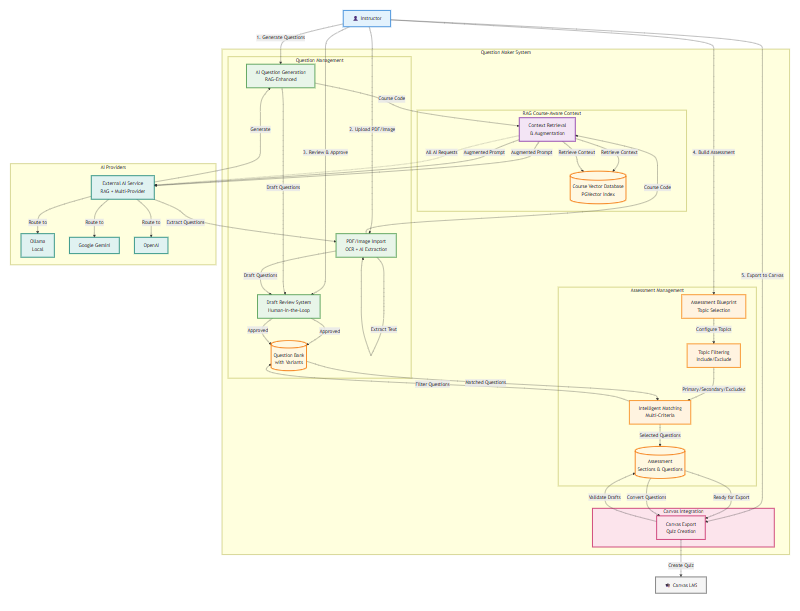
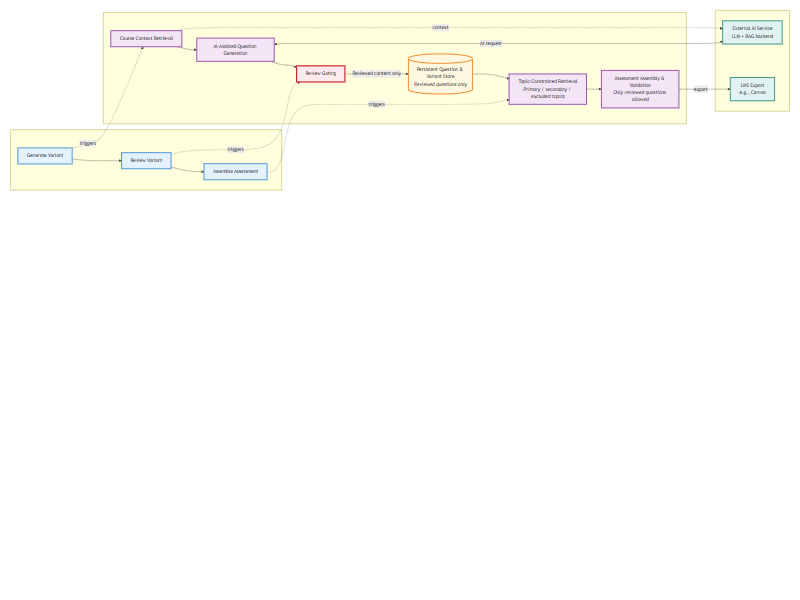
revised titles

diff --git a/docs/diagrams/paper architecture/system-overview.md b/docs/diagrams/paper architecture/system-overview.md
@@ -1,106 +1,62 @@
 ```mermaid
-graph TB
-    %% User Layer
-    Instructor[👤 Instructor]
-    
-    %% Core System Components
-    subgraph QM["Question Maker System"]
-        subgraph RAG["RAG Course-Aware Context"]
-            VectorDB[(Course Vector Database<br/>PGVector Index)]
-            ContextRetrieval[Context Retrieval<br/>& Augmentation]
-        end
+graph LR
+    %% Column 1: Instructor Actions (Left, Thin)
+    subgraph Col1[" "]
+        direction TB
+        Request[Generate Variant]
+        ReviewAction[Review Variant]
+        Assemble[Assemble Assessment]
         
-        subgraph QMgt["Question Management"]
-            AIGen[AI Question Generation<br/>RAG-Enhanced]
-            PDFImport[PDF/Image Import<br/>OCR + AI Extraction]
-            Review[Draft Review System<br/>Human-in-the-Loop]
-            QuestionBank[(Question Bank<br/>with Variants)]
-        end
-        
-        subgraph AMgt["Assessment Management"]
-            Blueprint[Assessment Blueprint<br/>Topic Selection]
-            TopicFilter[Topic Filtering<br/>Include/Exclude]
-            Matching[Intelligent Matching<br/>Multi-Criteria]
-            Assessment[(Assessment<br/>Sections & Questions)]
-        end
-        
-        subgraph CanvasInt["Canvas Integration"]
-            Export[Canvas Export<br/>Quiz Creation]
-        end
+        Request --> ReviewAction
+        ReviewAction --> Assemble
     end
     
-    %% External Services
-    subgraph AI["AI Providers"]
-        EduAI[External AI Service<br/>RAG + Multi-Provider]
-        Ollama[Ollama<br/>Local]
-        Gemini[Google Gemini]
-        OpenAI[OpenAI]
+    %% Column 2: Core Question Maker Workflow (Center, Main - 60-70%)
+    subgraph Col2[" "]
+        direction TB
+        RAG[Course Context Retrieval]
+        Generation[AI-Assisted Question Generation]
+        ReviewGate[Review Gating]
+        QuestionStore[( Store Reviewed Questions)]
+        TopicRetrieval[Topic-Constrained Retrieval]
+        AssessmentAssembly[Assessment Assembly]
+        
+        RAG --> Generation
+        Generation --> ReviewGate
+        ReviewGate -->|Reviewed content only| QuestionStore
+        QuestionStore --> TopicRetrieval
+        TopicRetrieval --> AssessmentAssembly
     end
     
-    Canvas[🎓 Canvas LMS]
+    %% Column 3: External Interfaces (Right, Thin)
+    subgraph Col3[" "]
+        direction TB
+        AIService[External AI Service <br/> + RAG backend]
+        LMSExport[LMS Export]
+    end
     
-    %% User Interactions
-    Instructor -->|1. Generate Questions| AIGen
-    Instructor -->|2. Upload PDF/Image| PDFImport
-    Instructor -->|3. Review & Approve| Review
-    Instructor -->|4. Build Assessment| Blueprint
-    Instructor -->|5. Export to Canvas| Export
+    %% Connections from Column 1 to Column 2
+    Request -.->|triggers| RAG
+    ReviewAction -.->|triggers| ReviewGate
+    Assemble -.->|triggers| TopicRetrieval
     
-    %% Question Generation Flow
-    AIGen -->|Course Code| ContextRetrieval
-    ContextRetrieval -->|Retrieve Context| VectorDB
-    ContextRetrieval -->|Augmented Prompt| EduAI
-    EduAI -->|Generate| AIGen
-    AIGen -->|Draft Questions| Review
-    Review -->|Approved| QuestionBank
+    %% Connections from Column 2 to Column 3
+    Generation <-->|AI request| AIService
+    AssessmentAssembly -->|export| LMSExport
     
-    %% PDF Import Flow
-    PDFImport -->|Extract Text| PDFImport
-    PDFImport -->|Course Code| ContextRetrieval
-    ContextRetrieval -->|Retrieve Context| VectorDB
-    ContextRetrieval -->|Augmented Prompt| EduAI
-    EduAI -->|Extract Questions| PDFImport
-    PDFImport -->|Draft Questions| Review
-    Review -->|Approved| QuestionBank
-    
-    %% Assessment Building Flow
-    Blueprint -->|Configure Topics| TopicFilter
-    TopicFilter -->|Primary/Secondary/Excluded| Matching
-    Matching -->|Filter Questions| QuestionBank
-    QuestionBank -->|Matched Questions| Matching
-    Matching -->|Selected Questions| Assessment
-    Assessment -->|Ready for Export| Export
-    
-    %% Canvas Export Flow
-    Export -->|Validate Drafts| Assessment
-    Assessment -->|Convert Questions| Export
-    Export -->|Create Quiz| Canvas
-    
-    %% AI Provider Selection
-    EduAI -->|Route to| Ollama
-    EduAI -->|Route to| Gemini
-    EduAI -->|Route to| OpenAI
-    
-    %% RAG Integration (shown as background process)
-    ContextRetrieval -.->|All AI Requests| EduAI
+    %% RAG connection to AI Service
+    RAG -.->|context| AIService
     
     %% Styling
-    classDef user fill:#e3f2fd,stroke:#1976d2,stroke-width:2px
-    classDef rag fill:#f3e5f5,stroke:#7b1fa2,stroke-width:2px
-    classDef question fill:#e8f5e9,stroke:#388e3c,stroke-width:2px
-    classDef assessment fill:#fff3e0,stroke:#f57c00,stroke-width:2px
-    classDef canvas fill:#fce4ec,stroke:#c2185b,stroke-width:2px
-    classDef ai fill:#e0f2f1,stroke:#00796b,stroke-width:2px
-    classDef external fill:#f5f5f5,stroke:#616161,stroke-width:2px
+    classDef instructor fill:#e3f2fd,stroke:#1976d2,stroke-width:2px
+    classDef core fill:#f3e5f5,stroke:#7b1fa2,stroke-width:2px
+    classDef reviewGate fill:#ffebee,stroke:#c62828,stroke-width:4px
     classDef database fill:#fff8e1,stroke:#f57f17,stroke-width:3px
+    classDef external fill:#e0f2f1,stroke:#00796b,stroke-width:2px
     
-    class Instructor user
-    class VectorDB,ContextRetrieval rag
-    class AIGen,PDFImport,Review,QuestionBank question
-    class Blueprint,TopicFilter,Matching,Assessment assessment
-    class Export,CanvasInt canvas
-    class EduAI,Ollama,Gemini,OpenAI ai
-    class Canvas external
-    class QuestionBank,Assessment,VectorDB database
+    class Request,ReviewAction,Assemble instructor
+    class RAG,Generation,TopicRetrieval,AssessmentAssembly core
+    class ReviewGate reviewGate
+    class QuestionStore database
+    class AIService,LMSExport external
 ```
-